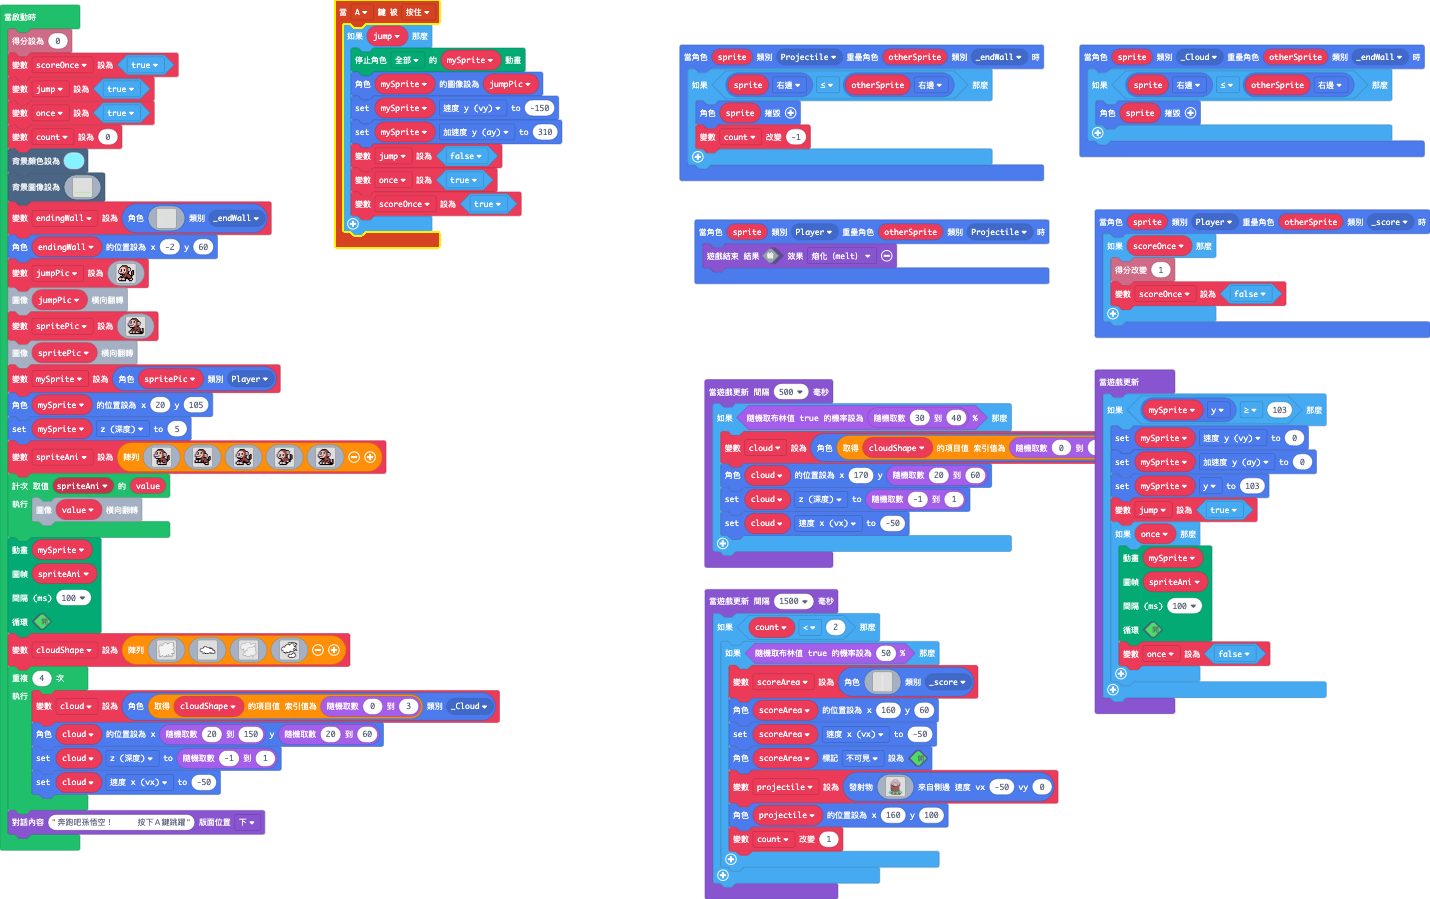
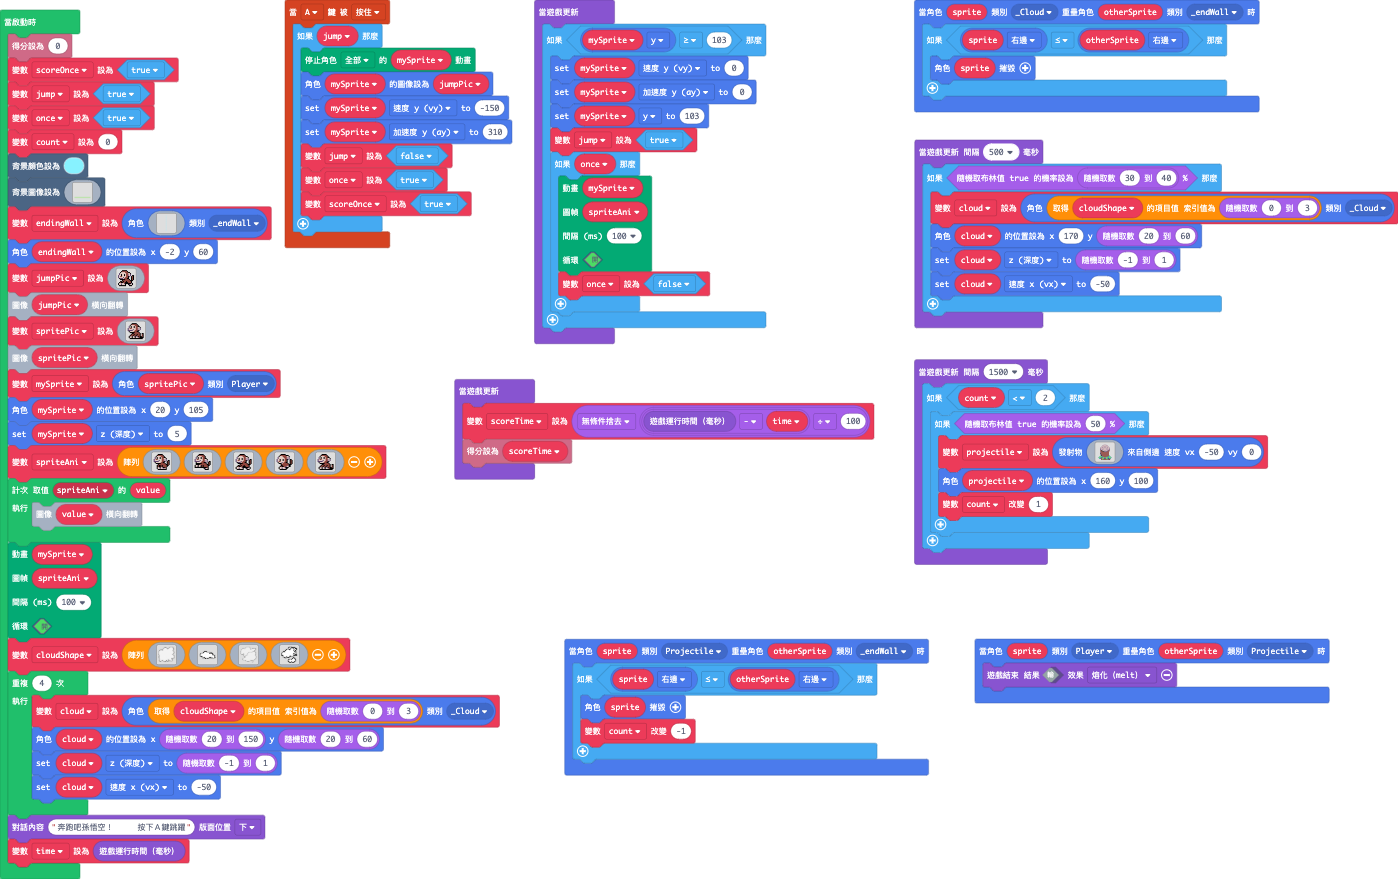
change the score calculate method

diff --git a/main.ts b/main.ts
@@ -9,12 +9,6 @@ sprites.onOverlap(SpriteKind.Projectile, SpriteKind._endWall, function (sprite, 
         count += -1
     }
 })
-sprites.onOverlap(SpriteKind.Player, SpriteKind._score, function (sprite, otherSprite) {
-    if (scoreOnce) {
-        info.changeScoreBy(1)
-        scoreOnce = false
-    }
-})
 sprites.onOverlap(SpriteKind.Player, SpriteKind.Projectile, function (sprite, otherSprite) {
     game.over(false, effects.melt)
 })
@@ -34,8 +28,8 @@ sprites.onOverlap(SpriteKind._Cloud, SpriteKind._endWall, function (sprite, othe
         sprite.destroy()
     }
 })
+let scoreTime = 0
 let projectile: Sprite = null
-let scoreArea: Sprite = null
 let cloud: Sprite = null
 let mySprite: Sprite = null
 let jumpPic: Image = null
@@ -603,134 +597,10 @@ for (let index = 0; index < 4; index++) {
     cloud.vx = -50
 }
 game.showLongText("奔跑吧孫悟空！     按下Ａ鍵跳躍", DialogLayout.Bottom)
+let time = game.runtime()
 game.onUpdateInterval(1500, function () {
     if (count < 2) {
         if (Math.percentChance(50)) {
-            scoreArea = sprites.create(img`
-1 1 1 1 1 1 1 1 
-1 1 1 1 1 1 1 1 
-1 1 1 1 1 1 1 1 
-1 1 1 1 1 1 1 1 
-1 1 1 1 1 1 1 1 
-1 1 1 1 1 1 1 1 
-1 1 1 1 1 1 1 1 
-1 1 1 1 1 1 1 1 
-1 1 1 1 1 1 1 1 
-1 1 1 1 1 1 1 1 
-1 1 1 1 1 1 1 1 
-1 1 1 1 1 1 1 1 
-1 1 1 1 1 1 1 1 
-1 1 1 1 1 1 1 1 
-1 1 1 1 1 1 1 1 
-1 1 1 1 1 1 1 1 
-1 1 1 1 1 1 1 1 
-1 1 1 1 1 1 1 1 
-1 1 1 1 1 1 1 1 
-1 1 1 1 1 1 1 1 
-1 1 1 1 1 1 1 1 
-1 1 1 1 1 1 1 1 
-1 1 1 1 1 1 1 1 
-1 1 1 1 1 1 1 1 
-1 1 1 1 1 1 1 1 
-1 1 1 1 1 1 1 1 
-1 1 1 1 1 1 1 1 
-1 1 1 1 1 1 1 1 
-1 1 1 1 1 1 1 1 
-1 1 1 1 1 1 1 1 
-1 1 1 1 1 1 1 1 
-1 1 1 1 1 1 1 1 
-1 1 1 1 1 1 1 1 
-1 1 1 1 1 1 1 1 
-1 1 1 1 1 1 1 1 
-1 1 1 1 1 1 1 1 
-1 1 1 1 1 1 1 1 
-1 1 1 1 1 1 1 1 
-1 1 1 1 1 1 1 1 
-1 1 1 1 1 1 1 1 
-1 1 1 1 1 1 1 1 
-1 1 1 1 1 1 1 1 
-1 1 1 1 1 1 1 1 
-1 1 1 1 1 1 1 1 
-1 1 1 1 1 1 1 1 
-1 1 1 1 1 1 1 1 
-1 1 1 1 1 1 1 1 
-1 1 1 1 1 1 1 1 
-1 1 1 1 1 1 1 1 
-1 1 1 1 1 1 1 1 
-1 1 1 1 1 1 1 1 
-1 1 1 1 1 1 1 1 
-1 1 1 1 1 1 1 1 
-1 1 1 1 1 1 1 1 
-1 1 1 1 1 1 1 1 
-1 1 1 1 1 1 1 1 
-1 1 1 1 1 1 1 1 
-1 1 1 1 1 1 1 1 
-1 1 1 1 1 1 1 1 
-1 1 1 1 1 1 1 1 
-1 1 1 1 1 1 1 1 
-1 1 1 1 1 1 1 1 
-1 1 1 1 1 1 1 1 
-1 1 1 1 1 1 1 1 
-1 1 1 1 1 1 1 1 
-1 1 1 1 1 1 1 1 
-1 1 1 1 1 1 1 1 
-1 1 1 1 1 1 1 1 
-1 1 1 1 1 1 1 1 
-1 1 1 1 1 1 1 1 
-1 1 1 1 1 1 1 1 
-1 1 1 1 1 1 1 1 
-1 1 1 1 1 1 1 1 
-1 1 1 1 1 1 1 1 
-1 1 1 1 1 1 1 1 
-1 1 1 1 1 1 1 1 
-1 1 1 1 1 1 1 1 
-1 1 1 1 1 1 1 1 
-1 1 1 1 1 1 1 1 
-1 1 1 1 1 1 1 1 
-1 1 1 1 1 1 1 1 
-1 1 1 1 1 1 1 1 
-1 1 1 1 1 1 1 1 
-1 1 1 1 1 1 1 1 
-1 1 1 1 1 1 1 1 
-1 1 1 1 1 1 1 1 
-1 1 1 1 1 1 1 1 
-1 1 1 1 1 1 1 1 
-1 1 1 1 1 1 1 1 
-1 1 1 1 1 1 1 1 
-1 1 1 1 1 1 1 1 
-1 1 1 1 1 1 1 1 
-1 1 1 1 1 1 1 1 
-1 1 1 1 1 1 1 1 
-1 1 1 1 1 1 1 1 
-1 1 1 1 1 1 1 1 
-1 1 1 1 1 1 1 1 
-1 1 1 1 1 1 1 1 
-1 1 1 1 1 1 1 1 
-1 1 1 1 1 1 1 1 
-1 1 1 1 1 1 1 1 
-1 1 1 1 1 1 1 1 
-1 1 1 1 1 1 1 1 
-1 1 1 1 1 1 1 1 
-1 1 1 1 1 1 1 1 
-1 1 1 1 1 1 1 1 
-1 1 1 1 1 1 1 1 
-1 1 1 1 1 1 1 1 
-1 1 1 1 1 1 1 1 
-1 1 1 1 1 1 1 1 
-1 1 1 1 1 1 1 1 
-1 1 1 1 1 1 1 1 
-1 1 1 1 1 1 1 1 
-1 1 1 1 1 1 1 1 
-1 1 1 1 1 1 1 1 
-1 1 1 1 1 1 1 1 
-1 1 1 1 1 1 1 1 
-1 1 1 1 1 1 1 1 
-1 1 1 1 1 1 1 1 
-1 1 1 1 1 1 1 1 
-`, SpriteKind._score)
-            scoreArea.setPosition(160, 60)
-            scoreArea.vx = -50
-            scoreArea.setFlag(SpriteFlag.Invisible, true)
             projectile = sprites.createProjectileFromSide(img`
 . . . . . . . . . . . . . . . . . . . . . . . . 
 . . . . . . . . . . b b b b . . . . . . . . . . 
@@ -778,6 +648,10 @@ game.onUpdate(function () {
             once = false
         }
     }
+})
+game.onUpdate(function () {
+    scoreTime = Math.floor((game.runtime() - time) / 100)
+    info.setScore(scoreTime)
 })
 game.onUpdateInterval(500, function () {
     if (Math.percentChance(Math.randomRange(30, 40))) {
